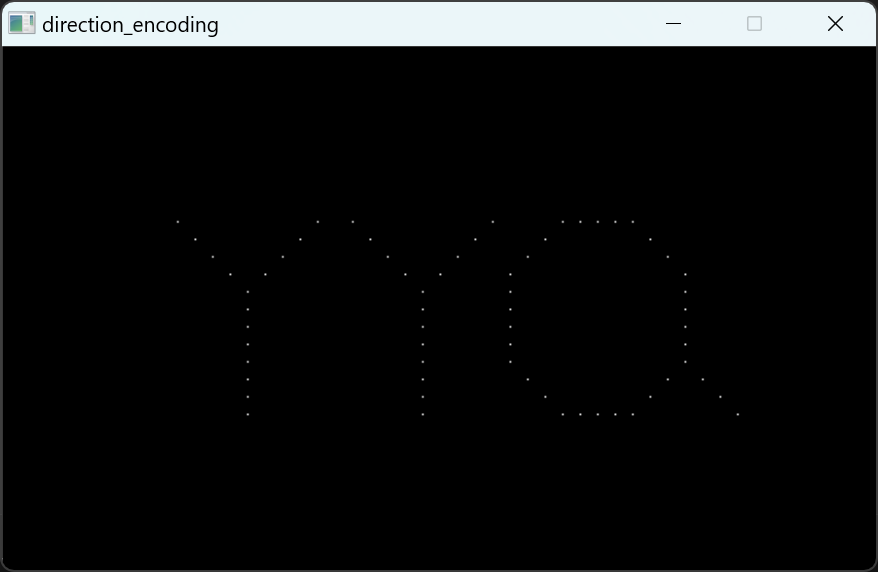
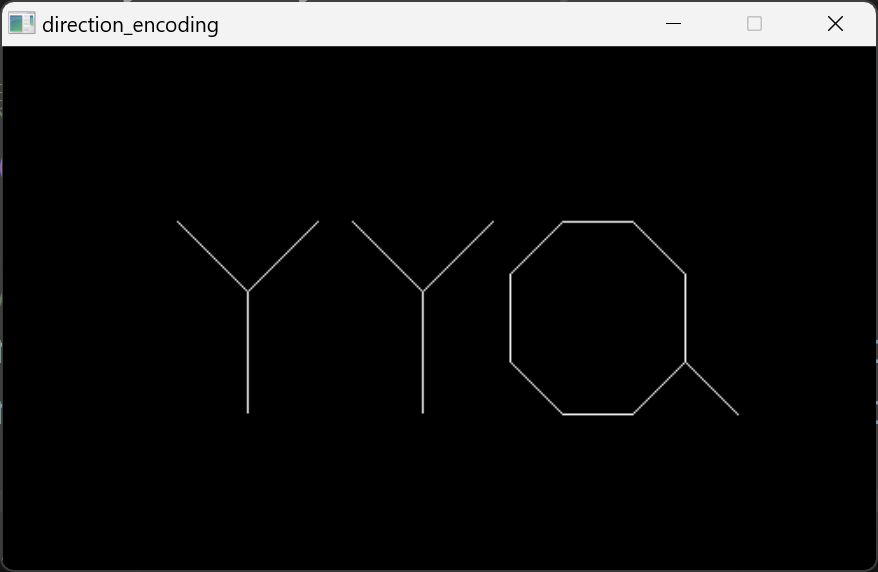
修改 PA3 direction_encoding 代码，使用line 函数来替代 putpixel 进行绘制

diff --git a/PA3/Code/direction_encoding.cpp b/PA3/Code/direction_encoding.cpp
@@ -41,17 +41,21 @@ void drawDirectionCode(int direction[], int size, int startX, int startY, int st
     int currentX = startX;
     int currentY = startY;
 
-    putpixel(currentX, currentY, WHITE);
+    int nextX, nextY;
 
     // 根据方向编码绘制字符
     for (int i = 0; i < size; i++)
     {
         // 计算下一个点的坐标
-        currentX += Model[direction[i]][0] * stepSize;
-        currentY += Model[direction[i]][1] * stepSize;
+        nextX = currentX + Model[direction[i]][0] * stepSize;
+        nextY = currentY + Model[direction[i]][1] * stepSize;
 
-        // 绘制该点
-        putpixel(currentX, currentY, WHITE);
+        // 用线连接当前点和下一个点
+        line(currentX, currentY, nextX, nextY);
+
+        // 更新当前点为下一个点
+        currentX = nextX;
+        currentY = nextY;
     }
 }
 
